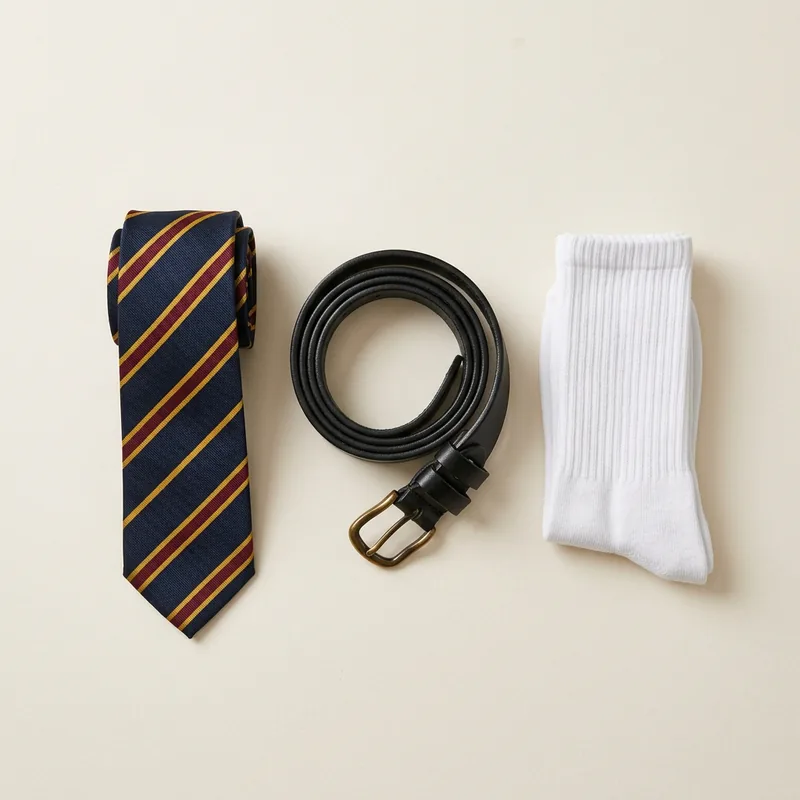
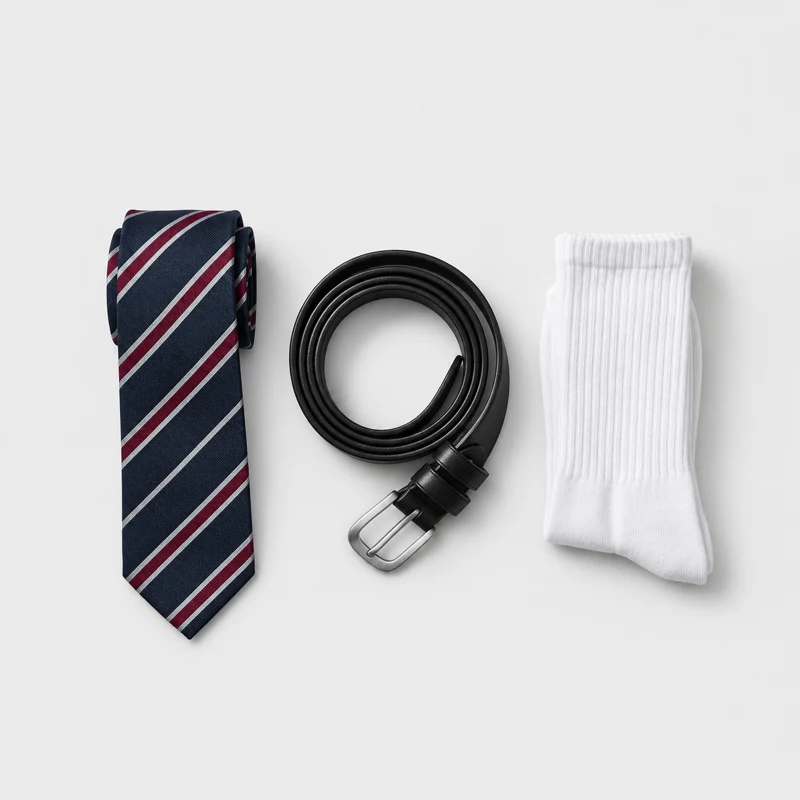
Remove PT uniforms from shopping and replace yellow accessory accents

diff --git a/frontend/src/components/SelectionFlow.tsx b/frontend/src/components/SelectionFlow.tsx
@@ -1,5 +1,5 @@
 import { uniformSizeGuide } from '../data/sizes';
-import { shopSection, sectionPhoto } from '../data/shopSections';
+import { isShopProductVisible, shopSection, sectionPhoto } from '../data/shopSections';
 import { useState, useEffect, useMemo, useRef, useCallback } from 'react';
 import { X } from './ui/icons';
 import { CategoryOutlineIllustration } from './product/CategoryOutlineIllustration';
@@ -259,7 +259,7 @@ export function SelectionFlow({
   });
 
   const productsList = (productsData?.results ?? []).filter((p) =>
-    (category === 'All' || shopSection(p) === category) &&
+    isShopProductVisible(p) && (category === 'All' || shopSection(p) === category) &&
     (!p.gender || p.gender === 'unisex' || p.gender === selection.gender));
 
   // Auto-skip logic for Step 2 if school has only 1 city

diff --git a/frontend/src/data/catalog.ts b/frontend/src/data/catalog.ts
@@ -1,5 +1,5 @@
 import { useQuery } from '@tanstack/react-query';
-import { sectionPhoto } from './shopSections';
+import { isShopProductVisible, sectionPhoto } from './shopSections';
 import { api } from '../api';
 import type { SeedProduct, SeedSchool } from './seedData';
 
@@ -220,7 +220,7 @@ export function useStoreProducts(
         products.push(...page.results);
         path = page.next ? page.next.slice(page.next.indexOf('/public/')) : null;
       }
-      return products.map(toProduct)
+      return products.filter(isShopProductVisible).map(toProduct)
         .filter((p) => !p.gender || p.gender === 'unisex' || p.gender === gender)
         .map((p) => ({ ...p, imageUrl: sectionPhoto(p.imageUrl, gender), heroUrl: sectionPhoto(p.heroUrl, gender) }));
     },

diff --git a/frontend/src/data/shopSections.ts b/frontend/src/data/shopSections.ts
@@ -1,3 +1,10 @@
+import { isCategoryLive } from './liveCategories';
+
+export function isShopProductVisible(product: { category: string; name: string }): boolean {
+  if (!isCategoryLive(shopSection(product))) return false;
+  return product.category !== 'Uniform Accessories' || !/\byellow\b/i.test(product.name);
+}
+
 export function shopSection(product: { category: string; name: string }): string {
   if (product.category === 'Uniform' && /\b(pt|p\.?e\.?|sports(?:wear)?|house (?:polo|t-shirt)|track pants?)\b/i.test(product.name)) return 'PT Uniform';
   return product.category;

diff --git a/frontend/src/data/liveCategories.ts b/frontend/src/data/liveCategories.ts
@@ -3,7 +3,7 @@
 // and the "buy stationery?" question are hidden everywhere parents shop. The products,
 // photos and ID card screens are all still in the code and the database.
 // To bring one back, delete it from this list. Nothing else needs to change.
-export const PAUSED_CATEGORIES: readonly string[] = ['Stationery', 'ID Cards'];
+export const PAUSED_CATEGORIES: readonly string[] = ['PT Uniform', 'Stationery', 'ID Cards'];
 
 export const ALL_CATEGORIES = ['Uniform', 'PT Uniform', 'School Shoes', 'Uniform Accessories', 'Stationery', 'ID Cards'] as const;
 

diff --git a/frontend/src/data/categoryPhotos.ts b/frontend/src/data/categoryPhotos.ts
@@ -11,6 +11,6 @@ export const CATEGORY_PHOTOS: Record<string, string> = {
 /** A product photo to show if a category photo is missing. */
 export const CATEGORY_FALLBACK_PHOTOS: Record<string, string> = {
   Uniform: '/products/uniform-dps-shirt.webp',
-  'Uniform Accessories': '/products/tie-udgam-crest.webp',
+  'Uniform Accessories': '/products/tie-standard-navy.webp',
   Stationery: '/products/notebook-photo.webp',
 };

diff --git a/frontend/src/components/idcard/idCard.css b/frontend/src/components/idcard/idCard.css
@@ -313,8 +313,8 @@
   top: 34px;
   right: -30px;
   transform: rotate(35deg);
-  background-color: var(--house-yellow);
-  color: var(--on-house-yellow);
+  background-color: var(--brand);
+  color: white;
   font-size: 9px;
   font-weight: 800;
   letter-spacing: 0.16em;
